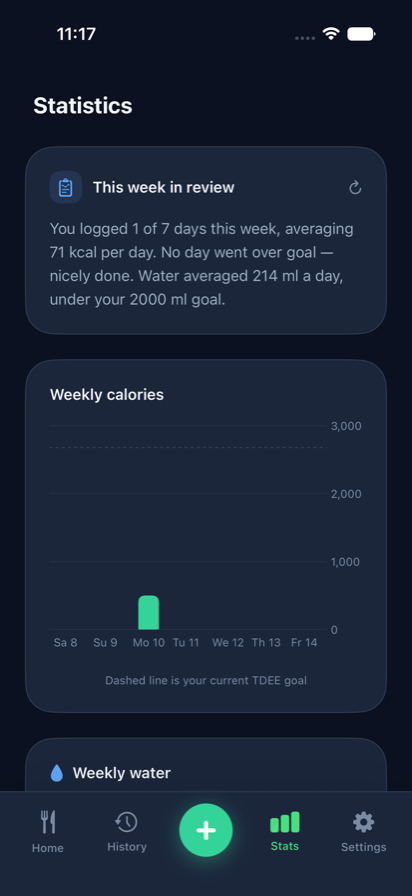
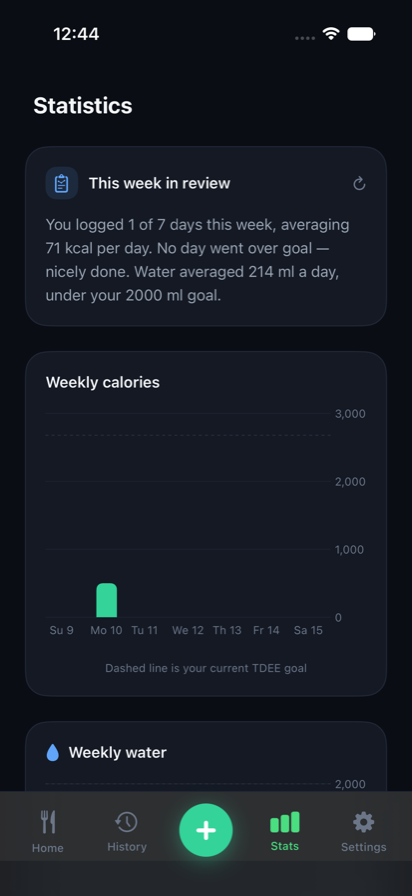
Calm the surfaces down
The dark theme read as a blue theme: background and card sat far apart
in lightness and both carried a blue cast, so every card floated with
equal weight and nothing led the eye. Pull both toward neutral, close
the gap between them, and drop the card shadow to zero in dark — on a
dark ground a shadow reads as grime around the edge rather than height.

Corner radii now come from one scale that steps down with the size of
what they wrap, so a small control inside a card no longer looks
inflated. The tab bar uses the system bar material instead of an opaque
fill, so content blurs through as it scrolls under.

diff --git a/CalorieFlow/Components/Theme.swift b/CalorieFlow/Components/Theme.swift
@@ -7,13 +7,16 @@ import UIKit
 /// เพราะสีจะถูก resolve ตาม trait ของแต่ละ view เอง รวมถึงตอน `ImageRenderer`
 /// เรนเดอร์การ์ดแชร์ด้วย
 enum Palette {
-    static let background = adaptive(light: 0xF8FAFC, dark: 0x0B1120)
-    static let card = adaptive(light: 0xFFFFFF, dark: 0x1B263B)
-    static let border = adaptive(light: 0xF1F5F9, dark: 0x2C3A52)
+    // พื้นหลังกับการ์ดถูกดึงให้เป็นกลางขึ้นและห่างกันน้อยลง — โทนน้ำเงินอมเทาเดิม
+    // (0x0B1120 / 0x1B263B) อ่านเป็น "ธีมสีน้ำเงิน" มากกว่า "ธีมมืด" และคอนทราสต์
+    // ระหว่างสองชั้นที่แรงเกินทำให้ทุกการ์ดลอยเด่นเท่ากันหมด จนไม่มีลำดับความสำคัญ
+    static let background = adaptive(light: 0xF7F8FA, dark: 0x0A0D14)
+    static let card = adaptive(light: 0xFFFFFF, dark: 0x141924)
+    static let border = adaptive(light: 0xE9ECF1, dark: 0x212837)
 
-    static let ink = adaptive(light: 0x1E293B, dark: 0xF1F5F9)
-    static let inkSoft = adaptive(light: 0x64748B, dark: 0xA0AEC0)
-    static let inkFaint = adaptive(light: 0x94A3B8, dark: 0x7A8AA3)
+    static let ink = adaptive(light: 0x161B22, dark: 0xF3F5F7)
+    static let inkSoft = adaptive(light: 0x5B6675, dark: 0x9AA5B4)
+    static let inkFaint = adaptive(light: 0x8E99A8, dark: 0x6B7688)
 
     static let green = adaptive(light: 0x22C55E, dark: 0x34D399)
     static let greenDeep = adaptive(light: 0x16A34A, dark: 0x4ADE80)
@@ -27,11 +30,31 @@ enum Palette {
     static let orange = adaptive(light: 0xFB923C, dark: 0xFDBA74)
     static let purple = adaptive(light: 0x9333EA, dark: 0xC084FC)
     static let pink = adaptive(light: 0xEC4899, dark: 0xF472B6)
-    static let track = adaptive(light: 0xE5E7EB, dark: 0x334155)
+    static let track = adaptive(light: 0xE8EBF0, dark: 0x252D3C)
+
+    /// เงาของการ์ด — **โปร่งใสสนิทในธีมมืด** โดยตั้งใจ
+    ///
+    /// เงาบนพื้นมืดไม่ได้อ่านเป็นความสูง แต่กลายเป็นคราบดำรอบการ์ดที่ทำให้ขอบดูเลอะ
+    /// ธีมมืดจึงแยกชั้นด้วยความสว่างของพื้นผิวกับเส้นขอบแทน ซึ่งเป็นวิธีที่ระบบเองใช้
+    static let cardShadow = adaptive(
+        light: 0x0F172A, lightAlpha: 0.05,
+        dark: 0x000000, darkAlpha: 0
+    )
 
     private static func adaptive(light: UInt32, dark: UInt32) -> Color {
         Color(uiColor: UIColor { trait in
             UIColor(rgb: trait.userInterfaceStyle == .dark ? dark : light)
+        })
+    }
+
+    private static func adaptive(
+        light: UInt32, lightAlpha: CGFloat,
+        dark: UInt32, darkAlpha: CGFloat
+    ) -> Color {
+        Color(uiColor: UIColor { trait in
+            let isDark = trait.userInterfaceStyle == .dark
+            return UIColor(rgb: isDark ? dark : light)
+                .withAlphaComponent(isDark ? darkAlpha : lightAlpha)
         })
     }
 }
@@ -60,19 +83,31 @@ extension UIColor {
 
 /// การ์ดมุมมนพร้อมเงาบาง — ใช้ซ้ำทุกหน้า (เทียบเท่า `bg-white rounded-3xl shadow-sm`)
 struct CardModifier: ViewModifier {
-    var padding: CGFloat = 24
+    var padding: CGFloat = 20
 
     func body(content: Content) -> some View {
         content
             .padding(padding)
             .frame(maxWidth: .infinity, alignment: .leading)
-            .background(Palette.card, in: RoundedRectangle(cornerRadius: 28, style: .continuous))
+            .background(Palette.card, in: RoundedRectangle(cornerRadius: Metrics.cardCorner, style: .continuous))
             .overlay(
-                RoundedRectangle(cornerRadius: 28, style: .continuous)
+                RoundedRectangle(cornerRadius: Metrics.cardCorner, style: .continuous)
                     .strokeBorder(Palette.border, lineWidth: 1)
             )
-            .shadow(color: .black.opacity(0.05), radius: 8, y: 2)
+            // เงาต่ำและใกล้ตัวกว่าเดิม (เดิม radius 8 / y 2 ที่ดำ 5%) การ์ดจึงดูวางอยู่
+            // บนพื้น ไม่ใช่ลอยอยู่เหนือพื้น ซึ่งเป็นภาษาที่ระบบใช้อยู่ตอนนี้
+            .shadow(color: Palette.cardShadow, radius: 12, y: 4)
     }
+}
+
+/// จังหวะการวางที่ใช้ร่วมกันทั้งแอป — รัศมีมุมไล่ลดหลั่นตามขนาดของสิ่งที่มันครอบ
+///
+/// มุมเดียวใช้ทุกที่ทำให้ปุ่มเล็ก ๆ ดูบวมและการ์ดใหญ่ดูเหลี่ยม ค่าชุดนี้ไล่จาก
+/// การ์ด → ตัวควบคุม → ชิป เพื่อให้ของที่ซ้อนกันอยู่ดูเข้าพวกกัน
+enum Metrics {
+    static let cardCorner: CGFloat = 22
+    static let controlCorner: CGFloat = 14
+    static let chipCorner: CGFloat = 10
 }
 
 /// สั่งปิดคีย์บอร์ดโดยไม่ผ่าน `@FocusState`
@@ -86,16 +121,16 @@ func hideKeyboard() {
 }
 
 extension View {
-    func cardStyle(padding: CGFloat = 24) -> some View {
+    func cardStyle(padding: CGFloat = 20) -> some View {
         modifier(CardModifier(padding: padding))
     }
 
     /// ช่องกรอกข้อมูลสไตล์เดียวกับเวอร์ชันเว็บ (`bg-slate-50 rounded-xl`)
     func inputFieldStyle() -> some View {
-        padding(16)
-            .background(Palette.background, in: RoundedRectangle(cornerRadius: 14, style: .continuous))
+        padding(14)
+            .background(Palette.background, in: RoundedRectangle(cornerRadius: Metrics.controlCorner, style: .continuous))
             .overlay(
-                RoundedRectangle(cornerRadius: 14, style: .continuous)
+                RoundedRectangle(cornerRadius: Metrics.controlCorner, style: .continuous)
                     .strokeBorder(Palette.border, lineWidth: 1)
             )
     }

diff --git a/CalorieFlow/Views/DashboardView.swift b/CalorieFlow/Views/DashboardView.swift
@@ -71,7 +71,7 @@ struct DashboardView: View {
             .background(
                 LinearGradient(colors: [Color(hex: 0x9333EA), Color(hex: 0xEC4899)],
                                startPoint: .leading, endPoint: .trailing),
-                in: RoundedRectangle(cornerRadius: 28, style: .continuous)
+                in: RoundedRectangle(cornerRadius: Metrics.cardCorner, style: .continuous)
             )
         }
         .buttonStyle(.plain)
@@ -108,7 +108,7 @@ struct DashboardView: View {
         .background(
             LinearGradient(colors: [Color(hex: 0xFB923C), Color(hex: 0xEF4444)],
                            startPoint: .topLeading, endPoint: .bottomTrailing),
-            in: RoundedRectangle(cornerRadius: 28, style: .continuous)
+            in: RoundedRectangle(cornerRadius: Metrics.cardCorner, style: .continuous)
         )
     }
 
@@ -222,7 +222,7 @@ struct DashboardView: View {
                     Image(systemName: "drop.fill")
                         .foregroundStyle(Palette.blue)
                         .padding(8)
-                        .background(Palette.blueSoft, in: RoundedRectangle(cornerRadius: 12, style: .continuous))
+                        .background(Palette.blueSoft, in: RoundedRectangle(cornerRadius: Metrics.chipCorner, style: .continuous))
                 }
                 Spacer()
                 Text(t.waterGoalShort(store.user.waterGoal))
@@ -252,9 +252,9 @@ struct DashboardView: View {
                     .focused($waterFieldFocused)
                     .padding(.horizontal, 16)
                     .padding(.vertical, 10)
-                    .background(Palette.background, in: RoundedRectangle(cornerRadius: 14, style: .continuous))
+                    .background(Palette.background, in: RoundedRectangle(cornerRadius: Metrics.controlCorner, style: .continuous))
                     .overlay(
-                        RoundedRectangle(cornerRadius: 14, style: .continuous)
+                        RoundedRectangle(cornerRadius: Metrics.controlCorner, style: .continuous)
                             .strokeBorder(Palette.border, lineWidth: 1)
                     )
 
@@ -269,7 +269,7 @@ struct DashboardView: View {
                 .foregroundStyle(Palette.card)
                 .padding(.horizontal, 18)
                 .padding(.vertical, 12)
-                .background(Palette.ink, in: RoundedRectangle(cornerRadius: 14, style: .continuous))
+                .background(Palette.ink, in: RoundedRectangle(cornerRadius: Metrics.controlCorner, style: .continuous))
             }
         }
         .cardStyle()
@@ -284,7 +284,7 @@ struct DashboardView: View {
                 .foregroundStyle(Palette.blueDeep)
                 .frame(maxWidth: .infinity)
                 .padding(.vertical, 12)
-                .background(Palette.blueSoft, in: RoundedRectangle(cornerRadius: 14, style: .continuous))
+                .background(Palette.blueSoft, in: RoundedRectangle(cornerRadius: Metrics.controlCorner, style: .continuous))
         }
         .buttonStyle(.plain)
     }

diff --git a/CalorieFlow/Views/RootView.swift b/CalorieFlow/Views/RootView.swift
@@ -77,12 +77,21 @@ private struct TabBar: View {
         }
         .padding(.top, 12)
         .padding(.horizontal, 8)
+        // วัสดุโปร่งแสงแทนพื้นทึบ + เงา — เนื้อหาที่เลื่อนลอดใต้แถบจะเบลอผ่านมาแทนที่จะ
+        // หายวับ ซึ่งบอกผู้ใช้ว่ายังเลื่อนต่อได้ และเป็นภาษาเดียวกับแถบของระบบ
         .background(
-            Palette.card
-                .shadow(color: .black.opacity(0.08), radius: 20, y: -10)
-                .ignoresSafeArea(edges: .bottom)
+            .bar,
+            in: Rectangle()
         )
-        .overlay(alignment: .top) { Rectangle().fill(Palette.border).frame(height: 1) }
+        .overlay(alignment: .top) {
+            Rectangle()
+                .fill(Palette.border)
+                .frame(height: 0.5)
+        }
+        .background(alignment: .bottom) {
+            // ต่อวัสดุลงไปคลุม home indicator ด้วย ไม่งั้นจะเห็นพื้นหลังโผล่เป็นแถบ
+            Rectangle().fill(.bar).ignoresSafeArea(edges: .bottom)
+        }
     }
 
     private func item(_ target: AppTab, icon: String, label: String) -> some View {

diff --git a/CalorieFlow/Views/AddFoodView.swift b/CalorieFlow/Views/AddFoodView.swift
@@ -76,7 +76,7 @@ struct AddFoodView: View {
                         .padding(.vertical, 16)
                         .background(
                             canSave ? Palette.green : Palette.track,
-                            in: RoundedRectangle(cornerRadius: 16, style: .continuous)
+                            in: RoundedRectangle(cornerRadius: Metrics.controlCorner, style: .continuous)
                         )
                         .shadow(color: canSave ? Palette.green.opacity(0.3) : .clear, radius: 12, y: 6)
                 }

diff --git a/CalorieFlow/Views/SettingsView.swift b/CalorieFlow/Views/SettingsView.swift
@@ -89,7 +89,7 @@ private struct SettingsCategoryRow: View {
                 .font(.system(size: 17, weight: .semibold))
                 .foregroundStyle(tint)
                 .frame(width: 44, height: 44)
-                .background(tint.opacity(0.12), in: RoundedRectangle(cornerRadius: 14, style: .continuous))
+                .background(tint.opacity(0.12), in: RoundedRectangle(cornerRadius: Metrics.controlCorner, style: .continuous))
 
             VStack(alignment: .leading, spacing: 3) {
                 Text(title)

diff --git a/CalorieFlow/Views/CoachCard.swift b/CalorieFlow/Views/CoachCard.swift
@@ -71,7 +71,7 @@ struct CoachCard: View {
                         .foregroundStyle(accent)
                         .frame(maxWidth: .infinity)
                         .padding(.vertical, 12)
-                        .background(accent.opacity(0.12), in: RoundedRectangle(cornerRadius: 14, style: .continuous))
+                        .background(accent.opacity(0.12), in: RoundedRectangle(cornerRadius: Metrics.controlCorner, style: .continuous))
                 }
                 .buttonStyle(.plain)
             }

diff --git a/CalorieFlow/Views/ModelDownloadView.swift b/CalorieFlow/Views/ModelDownloadView.swift
@@ -217,7 +217,7 @@ struct ModelDownloadView: View {
                 .foregroundStyle(ink)
                 .frame(maxWidth: .infinity)
                 .padding(.vertical, 14)
-                .background(tint, in: RoundedRectangle(cornerRadius: 18, style: .continuous))
+                .background(tint, in: RoundedRectangle(cornerRadius: Metrics.controlCorner, style: .continuous))
         }
         .buttonStyle(.plain)
     }

diff --git a/README.md b/README.md
@@ -18,6 +18,11 @@
 
 ภาพทั้งหมดถ่ายจากแอปที่รันจริงบน iPhone 17 Pro (iOS 27) ธีมมืด ไม่ได้ทำขึ้นใหม่
 
+พื้นผิวทั้งแอปมาจาก `Components/Theme.swift` ที่เดียว — สีเป็น dynamic `UIColor`
+รัศมีมุมไล่ลดหลั่นตามขนาดของสิ่งที่มันครอบ (การ์ด → ตัวควบคุม → ชิป) และธีมมืด
+แยกชั้นด้วยความสว่างของพื้นผิวกับเส้นขอบแทนเงา เพราะเงาบนพื้นมืดอ่านเป็นคราบ
+ไม่ใช่ความสูง
+
 ### หน้าหลัก
 
 <p>
